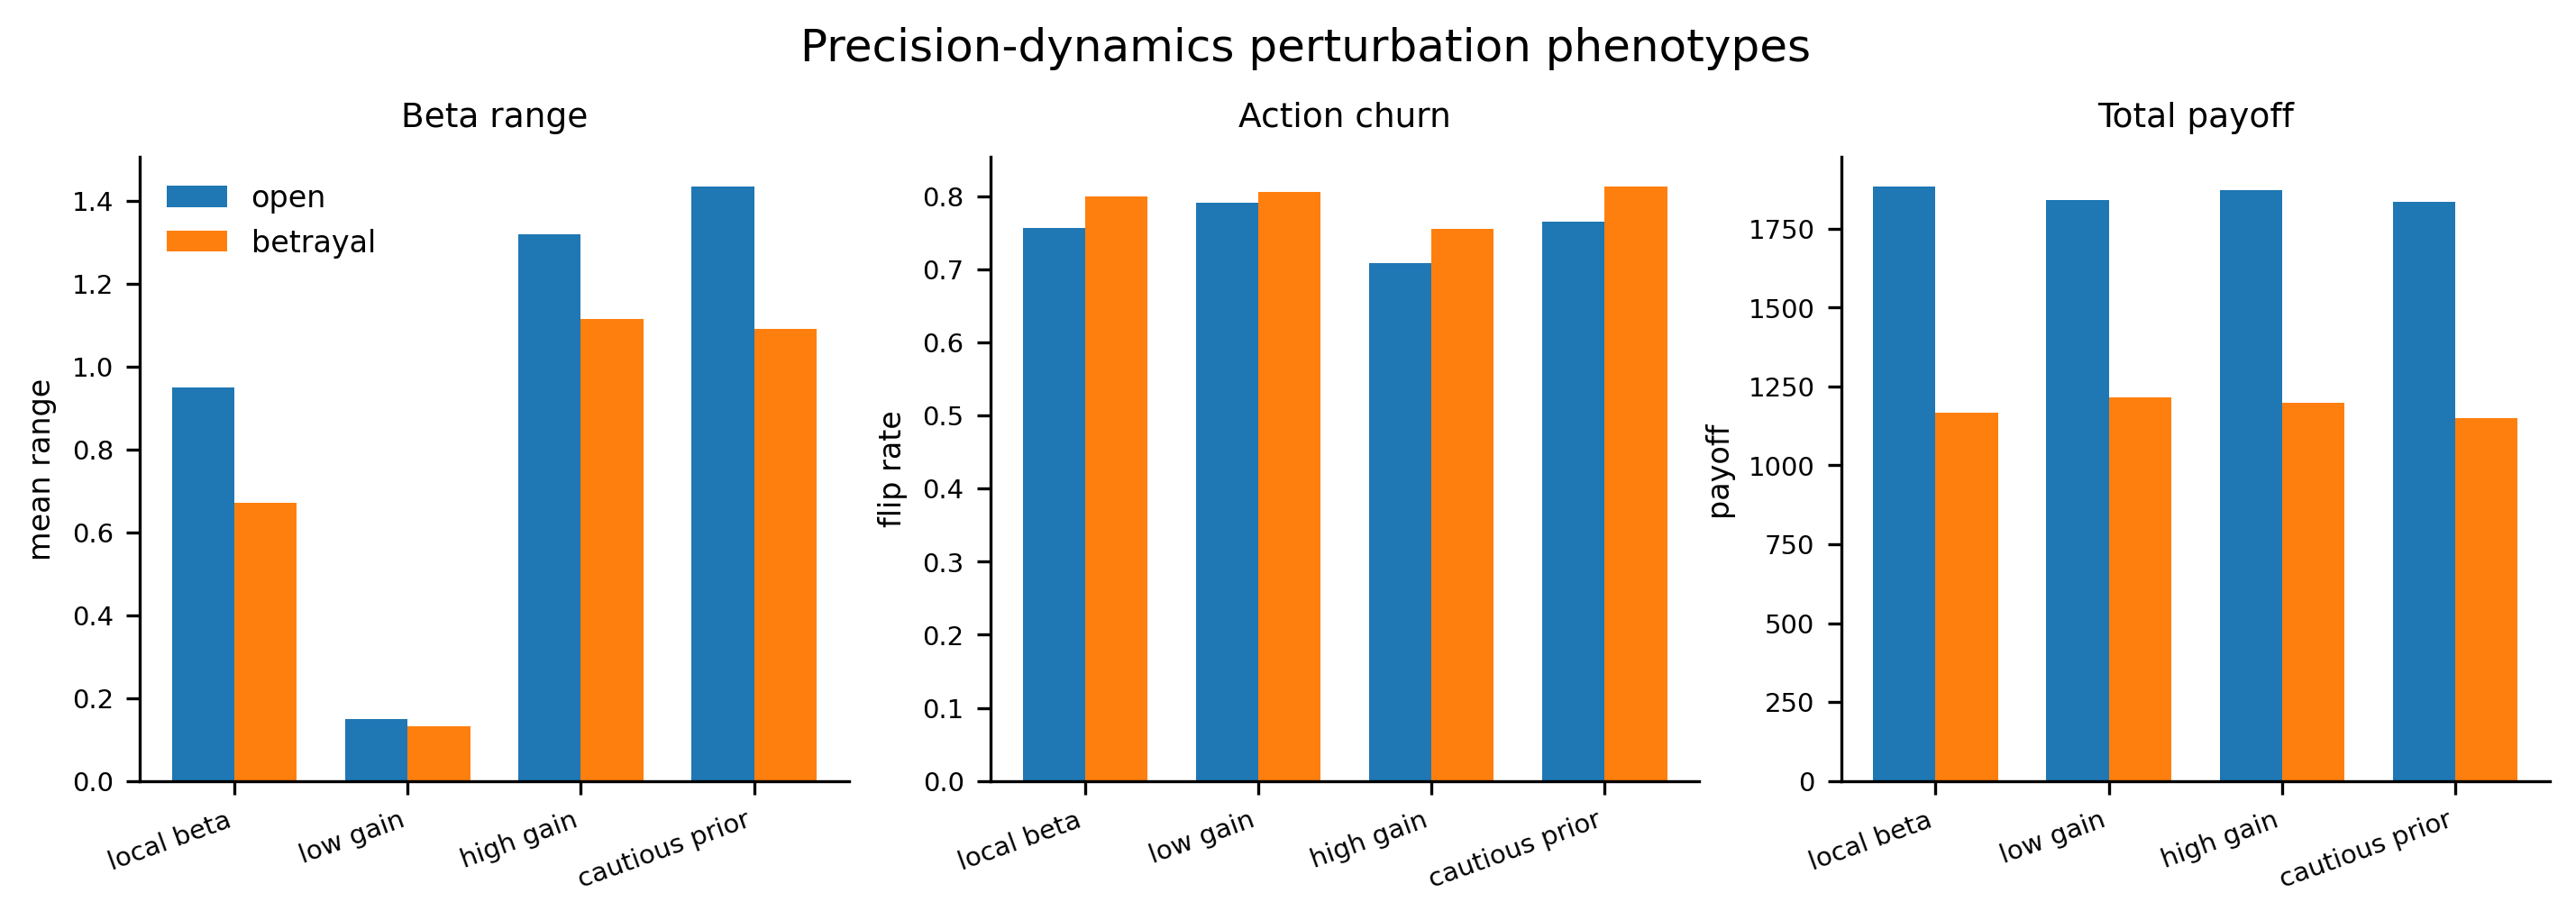
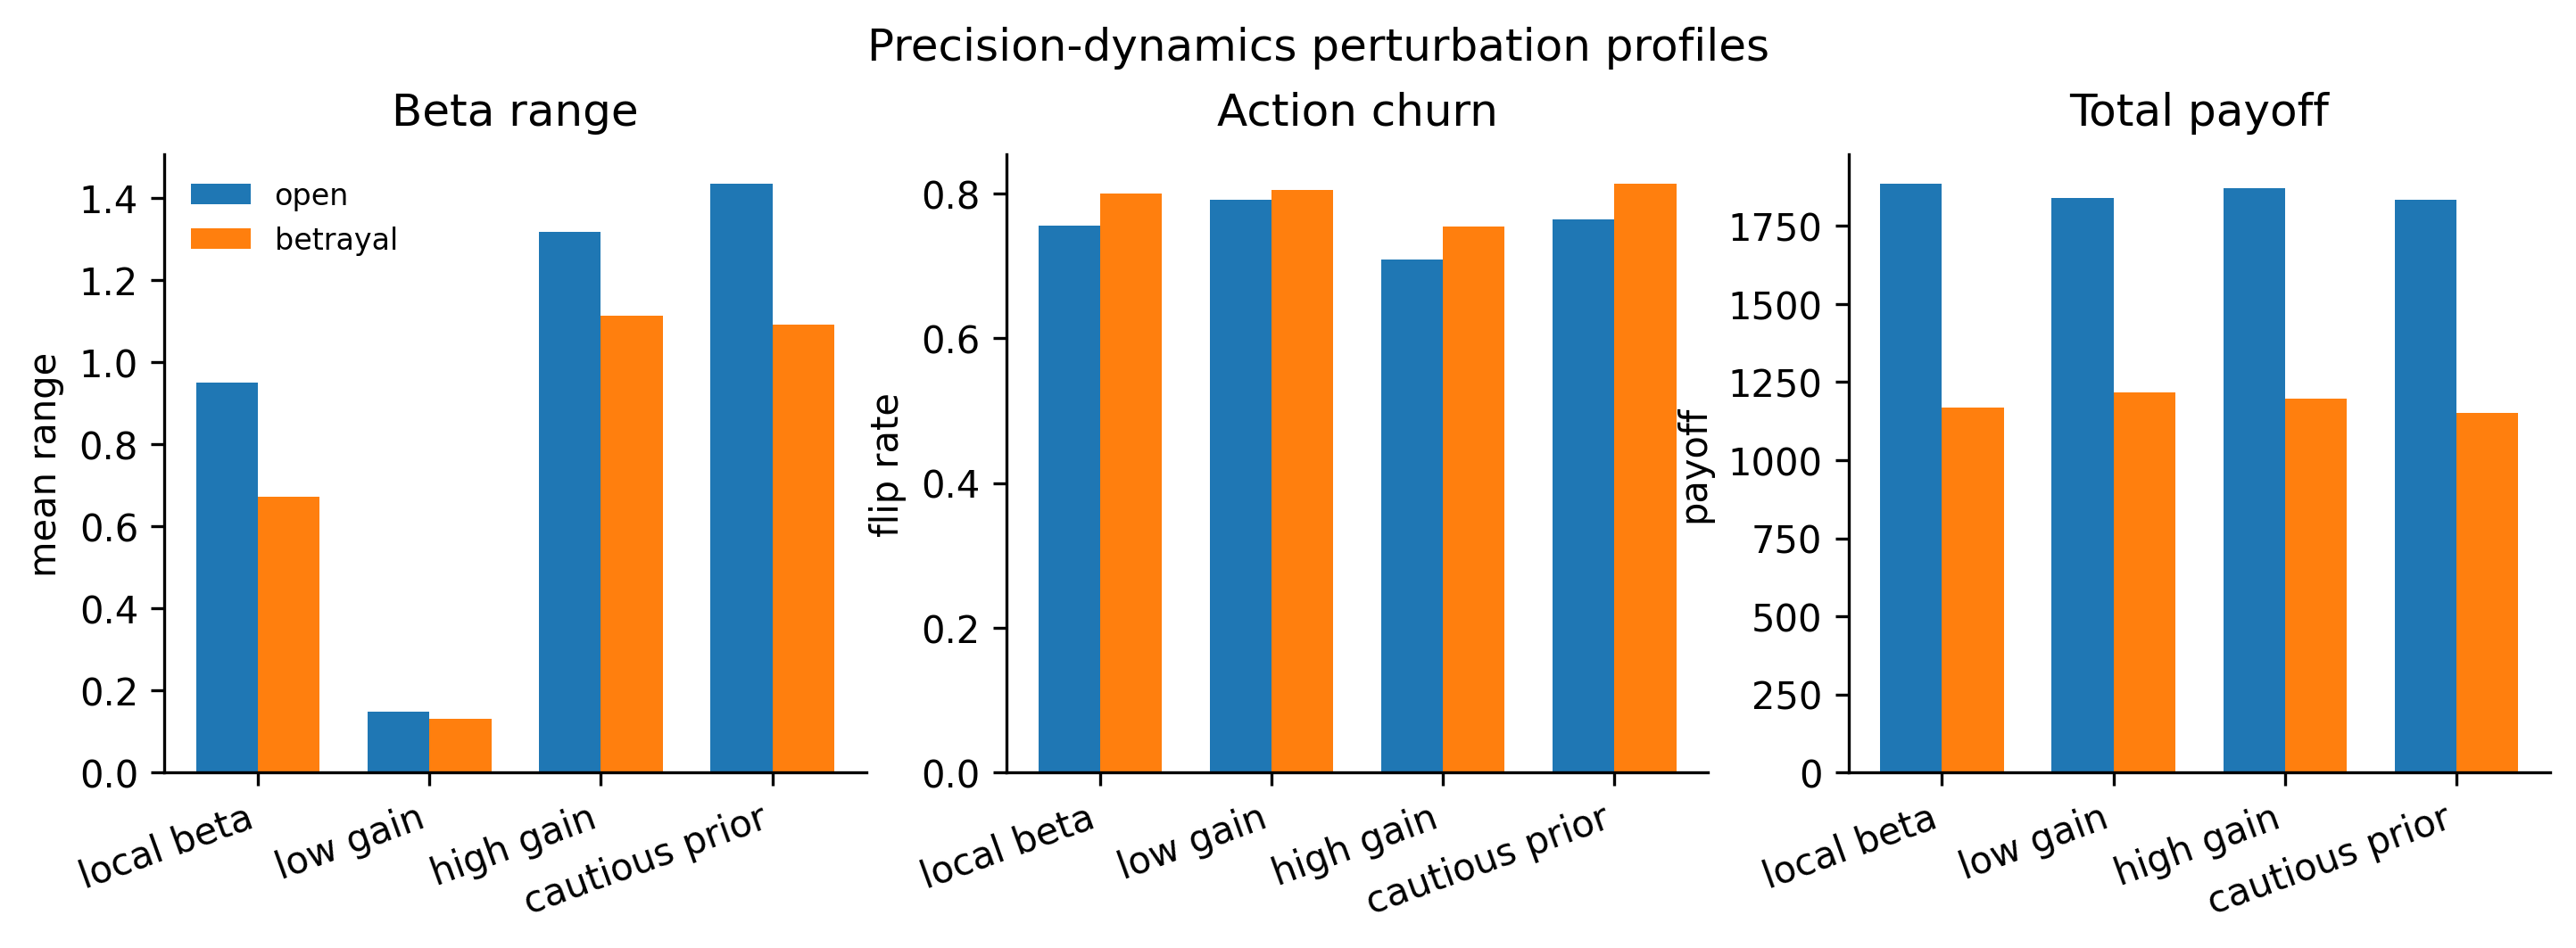
docs(manuscript): final submission prose cleanup pass
Strip draft/reviewer language across results, discussion, and appendices;
align abstract and figure assets with profile terminology and softened claims.

diff --git a/docs/paper/manuscript/sections/04_discussion.tex b/docs/paper/manuscript/sections/04_discussion.tex
@@ -1,21 +1,21 @@
 \section{Discussion}
 \label{sec:discussion}
 
-In this study, we introduced a partner-local affective precision mechanism for social active inference. Each partner model maintains its own estimate of model fitness, updated from that partner's behavioral evidence, and uses this estimate to modulate policy precision during action selection. Across experiments, the mechanism separated social prediction from social commitment: the agent could infer what a partner was likely to do while separately estimating how confidently to act on that inference.
+We introduced a partner-local affective precision mechanism for social active inference. Each partner model maintains its own estimate of model fitness, updated from that partner's behavioral evidence, and uses this estimate to modulate policy precision during action selection. Across experiments, this mechanism separated social prediction from social commitment: the agent could infer what a partner was likely to do while separately estimating how confidently to act on that inference.
 
-First, partner-local precision separated reliability from value. Partner-local precision tracked action surprise more strongly than realized payoff, even when aggregate reward favored the non-affective baseline. This followed directly from the update rule: $\beta_k$ changed with the predictability of the partner's behavior, not with whether the partner was beneficial. A reliably cooperative partner and a reliably defecting partner could therefore both support high precision. In this sense, affective precision behaved as a model-fitness signal rather than a reward trace.
+First, the model separated reliability from value. Partner-local precision tracked action surprise more strongly than realized payoff, even when aggregate reward favored the non-affective baseline. This followed from the update rule: $\beta_k$ changed with the predictability of the partner's behavior rather than with whether the partner was beneficial. A reliably cooperative partner and a reliably defecting partner could therefore both support high precision. Affective precision therefore behaved as a model-fitness signal rather than a reward trace.
 
-Second, the tracked-only ablation separated deployment from inference. In the tracked-only ablation, $\beta_k$ was updated but could not modulate policy precision, and behavior remained close to the no-affect baseline. Full partner-local precision lowered policy entropy through the $\beta_k \rightarrow \gamma_k$ pathway. The mechanism therefore changed how strongly the current partner model was expressed in action. It did not need to improve partner-state inference in order to change behavior.
+Second, the tracked-only ablation separated deployment from inference. There, $\beta_k$ was updated but could not modulate policy precision, and behavior remained close to the no-affect baseline. Full partner-local precision lowered policy entropy through the $\beta_k \rightarrow \gamma_k$ pathway. The mechanism therefore changed how strongly the current partner model was expressed in action. Behavior changed even without a corresponding improvement in partner-state inference.
 
-Third, the shared-$\beta$ comparison showed why confidence must remain relationship-local. The shared-$\beta$ comparison preserved a coarse reliability signal but weakened the partner-specific dissociation between surprise and payoff. This matters in multi-partner settings because evidence from one relationship should not automatically change confidence in another. Partner-local $\beta_k$ keeps confidence tied to the partner whose behavior generated it. This complements active-inference accounts of theory of mind, which model what another agent knows or intends \cite{Pitliya2025ToMActiveInference}, and factorized active-inference approaches that separate latent components of strategic interaction \cite{RuizSerra2025Factorised}. The present mechanism addresses a different variable: how much confidence the focal agent should place in its current partner model when acting.
+Third, the shared-$\beta$ comparison showed why confidence should remain relationship-local. Pooling evidence across partners preserved a coarse reliability signal but weakened the partner-specific dissociation between surprise and payoff. In multi-partner settings, evidence from one relationship need not change confidence in another. Partner-local $\beta_k$ keeps confidence tied to the partner whose behavior generated it. This complements active-inference accounts of theory of mind, which model what another agent knows or intends \cite{Pitliya2025ToMActiveInference}, and factorized active-inference approaches that separate latent components of strategic interaction \cite{RuizSerra2025Factorised}. The present mechanism addresses the confidence placed in the current partner model during action selection.
 
-The betrayal and mixed-volatility experiments show where this confidence mechanism becomes fragile. After a previously cooperative partner changes behavior, accumulated confidence can become stale. In the abrupt-betrayal condition, partner-local precision lowered policy entropy and increased joint partner-type accuracy, while the payoff advantage remained small and uncertain. The stable result is deployment change under social volatility. Whether that deployment helps depends on the speed of change, the availability of alternative partners, and how quickly engagement can be reallocated. This points to a natural extension: a volatility or change-detection signal that discounts accumulated confidence when prediction-error structure changes, similar in spirit to hierarchical volatility models \cite{Mathys2011HGF,Behrens2008SocialLearning} but operating at the level of action confidence rather than learning rate.
+The betrayal and mixed-volatility experiments show when accumulated confidence becomes fragile. After a previously cooperative partner changes behavior, confidence built under the earlier model can become stale. In the abrupt-betrayal condition, partner-local precision lowered policy entropy and increased joint partner-type accuracy, while the payoff advantage remained small and uncertain. The consistent effect is deployment change under social volatility. Its payoff consequences depend on the speed of change, the availability of alternative partners, and how quickly engagement can be reallocated. A volatility or change-detection signal could discount accumulated confidence when prediction-error structure changes, similar in spirit to hierarchical volatility models \cite{Mathys2011HGF,Behrens2008SocialLearning} but operating at the level of action confidence rather than learning rate.
 
-The profile analyses varied precision gain $\alpha$ and prior model fitness. Low-gain profiles updated weakly and distributed engagement diffusely, whereas high-gain profiles showed larger confidence swings and stronger reactivity. In the mixed-volatility setting, stronger gain increased payoff while also increasing false-positive confidence reduction toward stable partners. Social trust calibration therefore did not reduce to a single high-versus-low trust axis. It separated into update speed, confidence amplitude, reengagement after repair, sensitivity to change, and vulnerability to false positives. These profiles connect naturally to empirical work on social learning, psychosis, and attachment \cite{Behrens2008SocialLearning,Adams2013ComputationalPsychosis,Cittern2018AttachmentActiveInference}, but the present simulations are not fitted human phenotypes. They generate predictions for future behavioral fitting.
+The profile analyses varied precision gain $\alpha$ and prior model fitness. Low-gain profiles updated weakly and distributed engagement diffusely, whereas high-gain profiles showed larger confidence swings and stronger reactivity. In the mixed-volatility setting, stronger gain increased payoff while also increasing false-positive confidence reduction toward stable partners. Social trust calibration therefore separated into update speed, confidence amplitude, reengagement after repair, sensitivity to change, and vulnerability to false positives, rather than varying along a single high-versus-low trust axis. These profiles connect naturally to empirical work on social learning, psychosis, and attachment \cite{Behrens2008SocialLearning,Adams2013ComputationalPsychosis,Cittern2018AttachmentActiveInference}, but they have not yet been fitted to human behavior. They provide predictions for future behavioral fitting.
 
-The present implementation is deliberately minimal in several ways. Here, $\beta_k$ is updated outside the agent's generative model. Placing $\beta_k$ inside the model would allow the agent to represent expected changes in its own confidence and choose policies that anticipate changes in partner reliability, as in hierarchical active-inference treatments of affective precision \cite{Hesp2021DeeplyFeltAffect}. The partners are also fixed environment policies rather than active-inference agents, which isolates the focal mechanism but leaves reciprocal belief and confidence updating for future work. The profile analyses generate behavioral predictions rather than fitted individual-difference estimates; testing whether $\alpha$ and prior model-fitness parameters capture human trust variation will require fitting the model to behavioral time series. Finally, some effects are small at the current simulation scale, especially the betrayal payoff difference and the 20-seed profile analyses. The clearest empirical support comes from the dissociations that remain stable across controls: predictability over value, deployment over inference, and partner-local over shared confidence.
+The current implementation leaves several extensions. In the current implementation, $\beta_k$ is updated outside the agent's generative model. Embedding $\beta_k$ as a hidden state would allow the agent to represent expected changes in its own confidence and choose policies that anticipate changes in partner reliability \cite{Hesp2021DeeplyFeltAffect}. The partners are fixed environment policies rather than active-inference agents. This isolates the focal mechanism; reciprocal belief and confidence updating remain for future work. The profile analyses generate behavioral predictions rather than fitted individual-difference estimates. Testing whether $\alpha$ and prior model-fitness parameters capture human trust variation will require fitting the model to behavioral time series. Some effects are also small at the current simulation scale, especially the betrayal payoff difference and the 20-seed profile analyses. The strongest empirical support comes from the dissociations that remain stable across controls: predictability over value, deployment over inference, and partner-local over shared confidence.
 
-These extensions suggest two immediate next steps. The first is empirical fitting. The model produces behavioral quantities that can be measured from trust-game time series, including exploitation sensitivity, betrayal recovery, reengagement after repair, false-positive confidence reduction, and partner reallocation under mixed volatility. Estimating $\alpha$ and prior model-fitness parameters from individual participants would test whether these computational profiles correspond to stable differences in social trust calibration. The second is reciprocal multi-agent modeling: replacing environment-side partners with active-inference agents that maintain their own beliefs, policies, and precision estimates. This would allow partner-local affective precision to be studied together with theory-of-mind inference in richer multi-agent systems.
+Two next steps follow directly. The first is empirical fitting to human behavior. The model produces behavioral quantities that can be measured from trust-game time series, including exploitation sensitivity, betrayal recovery, reengagement after repair, false-positive confidence reduction, and partner reallocation under mixed volatility. Estimating $\alpha$ and prior model-fitness parameters from individual participants would test whether these computational profiles correspond to stable differences in social trust calibration. The second is reciprocal multi-agent modeling, replacing environment-side partners with active-inference agents that maintain their own beliefs, policies, and precision estimates. This would allow partner-local affective precision to be studied together with theory-of-mind inference in richer multi-agent systems.
 
 \section{Conclusion}
 

diff --git a/docs/paper/manuscript/appendix/appendix_d_extended_results.tex b/docs/paper/manuscript/appendix/appendix_d_extended_results.tex
@@ -1,17 +1,16 @@
 \section{Extended Profile and Robustness Results}
 \label{app:extended_results}
 
-\paragraph{Scope.}
-This appendix provides supporting technical detail for the corresponding main-text sections. Essential claims and results remain in the main paper.
+This appendix reports extended parameter sweeps, profile analyses, and robustness diagnostics that support the main-text results.
 
 \subsection{Precision-dynamics perturbations}
 \label{sec:perturbation_dynamics}
 
-To connect the basic mechanism to the profile program, we perturb the amplitude and stability of $\beta_k$ dynamics using profile-inspired computational variants. These variants are not diagnostic models; they are controlled ways of asking how flattened, expanded, or unstable precision dynamics alter action commitment.
+We first perturb the amplitude and stability of $\beta_k$ dynamics to test how precision dynamics affect action commitment. These variants are computational controls rather than diagnostic categories.
 
 \begin{table}[H]
 \centering
-\caption{Precision-dynamics perturbations in the graded decision regime. Variants are computational profiles, not clinical diagnoses.}
+\caption{Precision-dynamics perturbations in the graded decision regime.}
 \label{tab:perturbation_dynamics}
 \begin{tabular}{lccc}
 \toprule
@@ -26,13 +25,13 @@ cautious-prior & 1.48 & 1877.7 & 8.4 \\
 \end{table}
 
 \begin{sloppypar}
-Signal flattening produces the clearest behavioral consequence. The low-gain variant compresses $\beta_k$ range to $0.24$ and raises entropy to $8.9$, near the no-affect and tracked-only baselines. Expanded-dynamics variants produce wider $\beta_k$ movement, but payoff does not follow range monotonically. This motivates the parameter sweeps below: social confidence differences are better captured by gain and prior structure than by a single high-versus-low trust axis.
+Flattening the precision signal produces the clearest behavioral change. The low-gain variant compresses $\beta_k$ range to $0.24$ and raises entropy to $8.9$, near the no-affect and tracked-only baselines. Expanded-dynamics variants produce wider $\beta_k$ movement, but payoff does not follow range monotonically. The parameter sweeps below therefore vary gain and prior structure directly.
 \end{sloppypar}
 
 \begin{figure}[H]
 \centering
 \includegraphics[width=\linewidth]{fig_phenotype_dynamics_summary.pdf}
-\caption{Precision-dynamics perturbations in the graded decision regime. Variants are computational profiles, not clinical diagnoses or classifications.}
+\caption{Precision-dynamics perturbation profiles in the graded decision regime. Variants compare precision-dynamics settings in the graded decision regime.}
 \label{fig:phenotype_dynamics_appendix}
 \end{figure}
 
@@ -93,7 +92,7 @@ Default            & 1991 & 23.0 & 0.423 & 0.893 & 1.68 \\
 \begin{figure}[H]
 \centering
 \includegraphics[width=\linewidth]{fig_phenotype_quadrants.pdf}
-\caption{Profile quadrant profiles from the prior-by-$\alpha$ factorial (betrayal environment, 20 seeds). Profiles are computational analogues, not clinical classifications.}
+\caption{Gain-prior profile quadrants from the prior-by-$\alpha$ factorial (betrayal environment, 20 seeds).}
 \label{fig:phenotype_quadrants_appendix}
 \end{figure}
 
@@ -122,7 +121,7 @@ no-affect & 0.593 & 1.033 & 1.7 & -- \\
 \begin{figure}[H]
 \centering
 \includegraphics[width=\linewidth]{fig_forgiveness.pdf}
-\caption{Forgiveness/trust-repair diagnostic from the 20-seed profile program. Reengagement and payoff recovery do not collapse into a single monotonic gain effect: no-affect and cautious-low-$\alpha$ profiles reengage most often, while payoff recovery remains near baseline across profiles.}
+\caption{Forgiveness/trust-repair diagnostic from the 20-seed profile analyses. Reengagement and payoff recovery do not collapse into a single monotonic gain effect: no-affect and cautious-low-$\alpha$ profiles reengage most often, while payoff recovery remains near baseline across profiles.}
 \label{fig:forgiveness_appendix}
 \end{figure}
 

diff --git a/docs/paper/manuscript/appendix/appendix_c_protocols.tex b/docs/paper/manuscript/appendix/appendix_c_protocols.tex
@@ -1,8 +1,7 @@
 \section{Simulation Protocols and Metrics}
 \label{app:protocols}
 
-\paragraph{Scope.}
-This appendix provides supporting technical detail for the corresponding main-text sections. Essential claims and results remain in the main paper.
+This appendix summarizes simulation conditions, replication counts, schedules, and metrics.
 
 \subsection{Simulation conditions}
 
@@ -18,13 +17,13 @@ All reported experiments use one focal active-inference agent with four partners
 
 \textbf{Abrupt betrayal.} A partner-choice graded environment with scheduled stance betrayal on a previously cooperative partner tests post-switch reallocation, entropy, payoff, and joint accuracy (Section~\ref{sec:betrayal}).
 
-\textbf{Precision-dynamics perturbations.} Profile-inspired computational variants (low-gain, high-gain, and cautious-prior profiles) perturb $\beta_k$ amplitude and stability in the graded decision regime without claiming clinical validity (Appendix~\ref{app:extended_results}).
+\textbf{Precision-dynamics perturbations.} Computational profile variants (low-gain, high-gain, and cautious-prior profiles) perturb $\beta_k$ amplitude and stability in the graded decision regime (Appendix~\ref{app:extended_results}).
 
-\textbf{Profile program (Exp A--D).} Parameter sweeps and factorial designs vary precision gain $\alpha$ and prior over model fitness to define computational trust-calibration profiles in open graded, betrayal, partner-choice, forgiveness, and mixed-volatility environments (Section~\ref{sec:phenotypes}).
+\textbf{Extended profile experiments (Exp A--D).} Parameter sweeps and factorial designs vary precision gain $\alpha$ and prior over model fitness to define computational trust-calibration profiles in open graded, betrayal, partner-choice, forgiveness, and mixed-volatility environments (Section~\ref{sec:phenotypes}).
 
 \subsection{Seed counts and episode lengths}
 
-Unless otherwise stated in the main text, episode length is 200 rounds. The abrupt-betrayal condition uses 120 rounds because post-switch readouts dominate interpretation. Profile-program and mixed-volatility tables use 20 seeds per condition. Central behavioral comparisons use 30 seeds per condition. Exploratory diagnostic runs used three seeds per variant and were used only for implementation validation; all main-text claims are based on the confirmation-scale or profile-scale runs reported in the relevant sections.
+Unless otherwise stated in the main text, episode length is 200 rounds. The abrupt-betrayal condition uses 120 rounds because post-switch readouts dominate interpretation. Profile-scale and mixed-volatility tables use 20 seeds per condition. Central behavioral comparisons use 30 seeds per condition. Exploratory diagnostic runs used three seeds per variant and were used only for implementation validation; all main-text claims are based on the confirmation-scale or profile-scale runs reported in the relevant sections.
 
 Representative configured scales:
 
@@ -54,7 +53,7 @@ The supplementary repository contains the simulation environments, affect-runtim
 
 The canonical abrupt-betrayal protocol (H5 \texttt{betrayal\_choice}) uses graded payoffs, agent-chosen partners, four partners with fixed initial types and stances, and no stochastic type switching ($p_{\mathrm{switch}}=0$). Partner P0 begins as a cooperator in a trusting stance. At round 31, P0 undergoes a scheduled stance switch to hostile while other partners retain their initial configurations. Primary readouts are post-switch cumulative payoff, policy entropy, partner reallocation, and joint partner-type accuracy over the remaining episode.
 
-The profile-program betrayal environment used in Exp A and Exp B applies the same single-switch structure within 200-round episodes for recovery-time and quadrant metrics. Exp C (forgiveness) extends this schedule: rounds 1--80 cooperative baseline, rounds 81--120 betrayal on P0, rounds 121--200 reversion to cooperative/trusting on P0.
+The profile-scale betrayal environment used in Exp A and Exp B applies the same single-switch structure within 200-round episodes for recovery-time and quadrant metrics. Exp C (forgiveness) extends this schedule: rounds 1--80 cooperative baseline, rounds 81--120 betrayal on P0, rounds 121--200 reversion to cooperative/trusting on P0.
 
 \subsection{Mixed-volatility schedule}
 
@@ -99,4 +98,4 @@ Partner-choice readouts quantify how precision reshapes \emph{who} the agent eng
 
 \subsection{Replication summary}
 
-Central behavioral comparisons in Section~\ref{sec:results} use 30 seeds per condition. Profile-program and mixed-volatility analyses use 20 seeds per condition. The model-fitness dissociation (Section~\ref{sec:model_fitness}) uses active-encounter partial correlations to compare precision--surprise against precision--payoff associations, with shared $\beta$ included as the relational-specificity ablation.
+Central behavioral comparisons in Section~\ref{sec:results} use 30 seeds per condition. Profile-scale and mixed-volatility analyses use 20 seeds per condition. The model-fitness dissociation (Section~\ref{sec:model_fitness}) uses active-encounter partial correlations to compare precision--surprise against precision--payoff associations, with shared $\beta$ included as the relational-specificity ablation.

diff --git a/docs/paper/manuscript/sections/03_results.tex b/docs/paper/manuscript/sections/03_results.tex
@@ -23,7 +23,7 @@ The 30-seed model-fitness analysis separated reliability from value. Across part
 
 The locality probe tests whether confidence remains tied to the partner whose evidence produced it. Pooling evidence across partners weakens this relational structure. A shared $\beta$ tracker preserves the coarse ordering between predictive surprise and realized payoff, but attenuates the partner-specific dissociation observed under partner-local precision. In the active-encounter partial readout, partner-local precision shows a stronger association with surprise than payoff, whereas shared precision compresses both associations toward weaker values.
 
-This comparison isolates the locality of the precision signal. Pooling evidence blurred model-fitness estimates across relationships, while partner-local $\beta_k$ preserved the link between each partner's evidence and that partner's action confidence. The mixed-volatility analyses below examine a related issue: how stronger precision dynamics can increase payoff while also increasing false-positive confidence reduction toward stable partners. A direct shared-versus-local mixed-volatility comparison remains an important follow-up, but the present analysis establishes the signal-level effect of relationship-specific precision.
+This comparison isolates the locality of the precision signal. Pooling evidence blurred model-fitness estimates across relationships, while partner-local $\beta_k$ preserved the link between each partner's evidence and that partner's action confidence. The mixed-volatility analyses below examine a related issue: how stronger precision dynamics can increase payoff while also increasing false-positive confidence reduction toward stable partners. A mixed-volatility shared-versus-local comparison would test the behavioral consequences of this attenuation; here, the analysis establishes the signal-level effect of relationship-specific precision.
 
 \subsection{Behavioral effects arise through action sharpening}
 \label{sec:deployment}
@@ -63,14 +63,14 @@ The parameter analyses below vary precision gain and prior model fitness to exam
 \subsection{Precision dynamics as computational profiles of social trust calibration}
 \label{sec:phenotypes}
 
-The parameters governing $\beta_k$ dynamics define parameterized profile perturbations. Variation in precision gain $\alpha$ and the prior over model fitness produces qualitatively distinct behavioral profiles across social contexts. These profiles provide computational analogues for empirically studied variation in social trust calibration \cite{Behrens2008SocialLearning,Adams2013ComputationalPsychosis,Cittern2018AttachmentActiveInference}. They are not clinical classifications or fitted human profiles.
+We varied precision gain $\alpha$ and the prior over model fitness to examine how confidence-revision dynamics change across social contexts. These profiles provide computational analogues for empirically studied variation in social trust calibration \cite{Behrens2008SocialLearning,Adams2013ComputationalPsychosis,Cittern2018AttachmentActiveInference}. They are computational profiles rather than fitted human data.
 
-Parameterized computational perturbations (Appendix~\ref{app:extended_results}) show that flattened precision dynamics can collapse action commitment without improving payoff: the low-gain variant compresses $\beta_k$ range to $0.24$ and raises entropy to $8.9$, near the no-affect and tracked-only baselines, whereas expanded-dynamics variants widen $\beta_k$ movement without monotonic payoff gains. This motivates parameter sweeps over gain and prior structure rather than a single high-versus-low trust axis.
+Initial parameter perturbations (Appendix~\ref{app:extended_results}) show that flattened precision dynamics can reduce action commitment without improving payoff: the low-gain variant compresses $\beta_k$ range to $0.24$ and raises entropy to $8.9$, near the no-affect and tracked-only baselines, whereas expanded-dynamics variants widen $\beta_k$ movement without monotonic payoff gains. We therefore sweep gain and prior structure directly rather than treating trust calibration as a single high-versus-low axis.
 
 \paragraph{Precision-gain axis.}
 Sweeping $\alpha$ across $\{0.05, 0.1, 0.3, 0.5, 1.0, 2.0, 4.0, 8.0\}$ shows that $\beta_k$ movement range increases monotonically with $\alpha$ in the betrayal regime. Low-$\alpha$ agents ($\alpha \le 0.1$) show near-zero exploitation rates and Gini coefficients of $0.423$ and $0.397$, producing diffuse, slowly-updating engagement patterns. High-$\alpha$ agents ($\alpha \ge 4.0$) show Gini coefficients of $0.366$ and $0.408$ with recovery times of $28.8$ and $13.0$ rounds respectively---faster detection of behavioral change in some runs, but higher variance in recovery outcomes. Payoff does not rank $\alpha$ values monotonically across either regime (betrayal: range $1914.6$--$1986.2$; open graded: $1906.3$--$1987.7$), indicating that the behavioral consequence of precision-gain depends on task context rather than gain magnitude alone. Extended alpha-sweep diagnostics are in Appendix~\ref{app:extended_results}.
 
-\paragraph{Profile quadrants.}
+\paragraph{Gain-prior profiles.}
 Crossing prior belief (naive versus cautious) with $\alpha$ (low versus high) defines four behavioral profiles tested in the betrayal environment (20 seeds). Low-$\alpha$ profiles (naive-stubborn and avoidant-rigid) show substantially smaller $\beta_k$ range ($0.32$--$0.36$) than high-$\alpha$ profiles ($0.89$--$1.08$), confirming that gain controls the magnitude of precision dynamics. Naive-stubborn shows the lowest Gini ($0.304$), reflecting maximally diffuse partner selection consistent with a slowly-updating confidence profile. Avoidant-rigid shows the lowest payoff ($1889$), as the cautious prior prevents confidence from building even toward reliably cooperative partners. The anxious-reactive profile shows the highest post-betrayal commitment errors toward the switched partner (post-betrayal P0 selection: $0.319$; high investment rate: $0.121$), reflecting rapid confidence accumulation that becomes a liability when a partner's behavior changes. The default agent outperforms all profile variants on payoff ($1991$), occupying a calibrated region of the gain-prior space. Quadrant figures and supporting diagnostics are in Appendix~\ref{app:extended_results}.
 
 \paragraph{Forgiveness and trust repair.}
@@ -102,7 +102,7 @@ The false-positive rate---unwarranted confidence reduction toward the stationary
 \begin{figure}[t]
 \centering
 \includegraphics[width=\linewidth]{fig_mixed_volatility.pdf}
-\caption{Mixed-volatility partner-choice environment (20 seeds). Four partners differ in volatility: stationary cooperator (P0), stationary exploiter (P1), abrupt switch (P2), and gradual drift (P3). Higher precision-gain $\alpha$ can raise payoff while worsening discrimination and false-positive suppression toward P0; profiles are computational analogues, not clinical classifications.}
+\caption{Mixed-volatility partner-choice environment (20 seeds). Four partners differ in volatility: stationary cooperator (P0), stationary exploiter (P1), abrupt switch (P2), and gradual drift (P3). Higher precision-gain $\alpha$ can raise payoff while worsening discrimination and increasing false-positive confidence reduction toward P0.}
 \label{fig:mixed_volatility}
 \end{figure}
 

diff --git a/docs/paper/manuscript/appendix/appendix_a_pomdp.tex b/docs/paper/manuscript/appendix/appendix_a_pomdp.tex
@@ -1,8 +1,7 @@
 \section{Full POMDP Specification}
 \label{app:pomdp}
 
-\paragraph{Scope.}
-This appendix provides supporting technical detail for the corresponding main-text sections. Essential claims and results remain in the main paper.
+This appendix specifies the POMDP components used by the focal agent.
 
 \subsection{Hidden state factors and observations}
 

diff --git a/docs/paper/manuscript/appendix/appendix_b_precision_update.tex b/docs/paper/manuscript/appendix/appendix_b_precision_update.tex
@@ -1,8 +1,7 @@
 \section{Affective Precision Update and Policy Selection}
 \label{app:precision_update}
 
-\paragraph{Scope.}
-This appendix provides supporting technical detail for the corresponding main-text sections. Essential claims and results remain in the main paper.
+This appendix gives the $\beta$-update rule, policy-precision mapping, and partner-choice policy-selection procedure.
 
 \subsection{Categorical beta support}
 

diff --git a/docs/paper/manuscript/sections/00_abstract.tex b/docs/paper/manuscript/sections/00_abstract.tex
@@ -2,7 +2,7 @@
 \emergencystretch=2em
 We model affect in social settings as metacognition: an estimate of whether the focal agent's current partner model warrants confident action, rather than a direct signal of what another agent will do or a record of reward and punishment. This distinction matters in multi-partner environments, where an agent may have a reliable model of one partner, an uncertain model of another, and a predictably hostile model of a third. We formalize this idea in active inference by extending affective precision to relationship-specific model-fitness estimates. Each partner receives its own $\beta$ estimate, updated only from that partner's behavioral evidence, which modulates policy precision when acting toward that partner.
 
-Simulations in a multi-partner trust game show that partner-local affective precision tracks predictability rather than value: a reliably defecting and a reliably cooperative partner can both support high precision, because what they share is predictability, not positive value. In decision-open regimes, deployment changes arise through action sharpening rather than improved belief quality; in partner-choice settings, engagement reorganizes around reliability before aggregate payoff separates. Under abrupt behavioral change, relationship-specific confidence reshapes action deployment through policy precision; payoff effects are modest and uncertain, and the temporal benefit of accumulated confidence depends on whether the social portfolio permits rapid reallocation away from the changed partner. Precision gain and priors over model fitness shape computational profiles of social trust calibration. These results describe affective precision as a relationship-specific signal that regulates confidence in social action.
+Simulations in a multi-partner trust game show that partner-local affective precision tracks predictability rather than value: a reliably defecting and a reliably cooperative partner can both support high precision, because what they share is predictability, not positive value. In decision-open regimes, deployment changes arise through action sharpening rather than improved belief quality; in partner-choice settings, precision modulation produces modest partner-choice redistribution without a clear aggregate payoff separation. Under abrupt behavioral change, relationship-specific confidence reshapes action deployment through policy precision; payoff effects are modest and uncertain, and the temporal benefit of accumulated confidence depends on whether the social portfolio permits rapid reallocation away from the changed partner. Precision gain and priors over model fitness shape computational profiles of social trust calibration. These results describe affective precision as a relationship-specific signal that regulates confidence in social action.
 
 \keywords{Active inference \and Affective precision \and Social metacognition \and Multi-agent systems \and Trust \and Individual differences}
 \end{abstract}

diff --git a/docs/paper/manuscript/sections/02_method.tex b/docs/paper/manuscript/sections/02_method.tex
@@ -70,7 +70,7 @@ In partner-choice regimes, policies specify both which partner to engage and how
 Reported experiments use one focal active-inference agent interacting with four environment-side partners. Partners maintain latent type and stance, sample actions from the type-by-stance cooperation probabilities, and undergo action-dependent stance transitions, but they do not perform variational inference or maintain their own affective precision estimates. This isolates the focal agent's partner-local precision mechanism before extending the model to reciprocal active-inference partners. Full implementation details are provided in Appendix~\ref{app:pomdp}.
 
 \paragraph{Simulation scale.}
-Unless otherwise stated, simulations use 200-round episodes. Profile-program and mixed-volatility experiments use 20 seeds per condition, while central behavioral comparisons use 30 seeds per condition. The abrupt-betrayal condition uses 120 rounds because the switch is scheduled explicitly and the main readouts are post-switch behavior. Full condition definitions, schedules, metrics, and seed counts are provided in Appendix~\ref{app:protocols}.
+Unless otherwise stated, simulations use 200-round episodes. Profile-scale and mixed-volatility experiments use 20 seeds per condition, while central behavioral comparisons use 30 seeds per condition. The abrupt-betrayal condition uses 120 rounds because the switch is scheduled explicitly and the main readouts are post-switch behavior. Full condition definitions, schedules, metrics, and seed counts are provided in Appendix~\ref{app:protocols}.
 
 \paragraph{Code availability.}
 Simulation code, analysis scripts, and experiment configurations will be released in a public repository upon acceptance.

diff --git a/scripts/analysis/make_paper_figures.py b/scripts/analysis/make_paper_figures.py
@@ -315,7 +315,7 @@ def phenotype_figure(source_dir: Path, output_dir: Path) -> list[Path]:
         ax.set_ylabel(ylabel)
         ax.spines[["top", "right"]].set_visible(False)
     axes[0].legend(frameon=False, fontsize=8)
-    fig.suptitle("Precision-dynamics perturbation phenotypes", y=1.04, fontsize=12)
+    fig.suptitle("Precision-dynamics perturbation profiles", y=1.04, fontsize=12)
     return _save(fig, output_dir, "fig_phenotype_dynamics_summary")
 
 